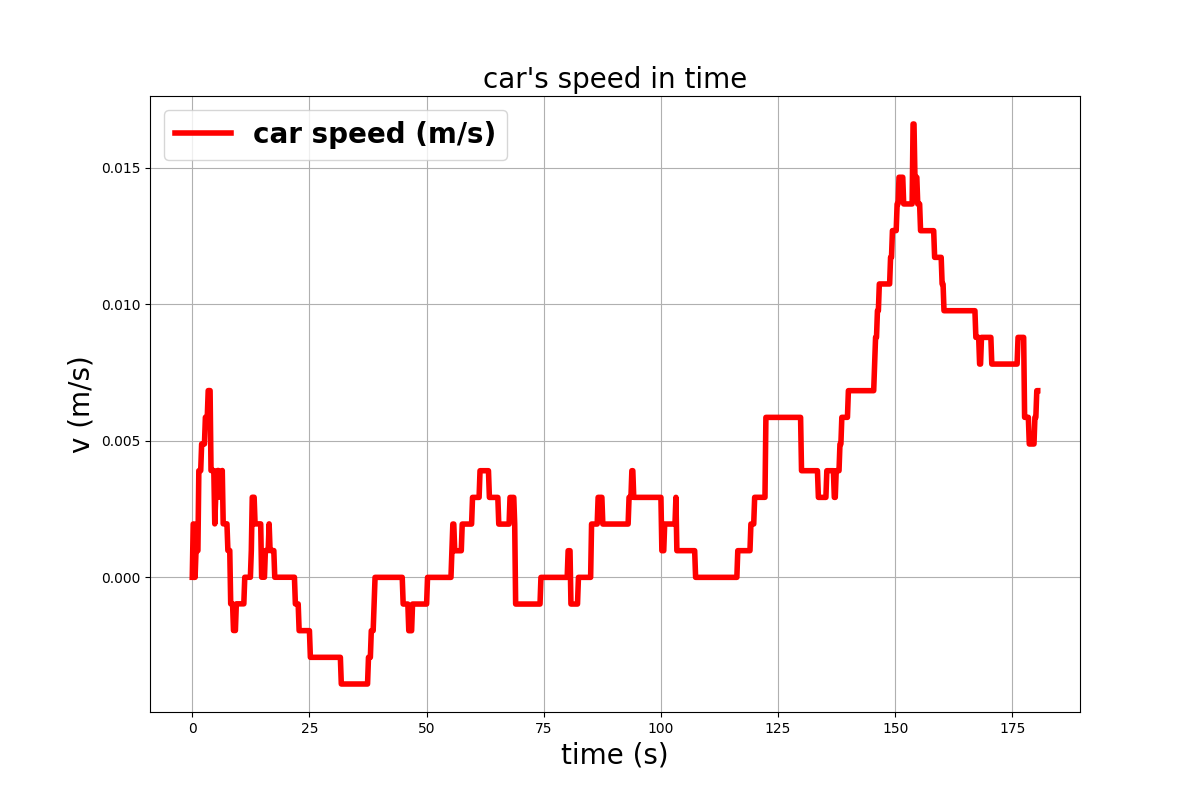
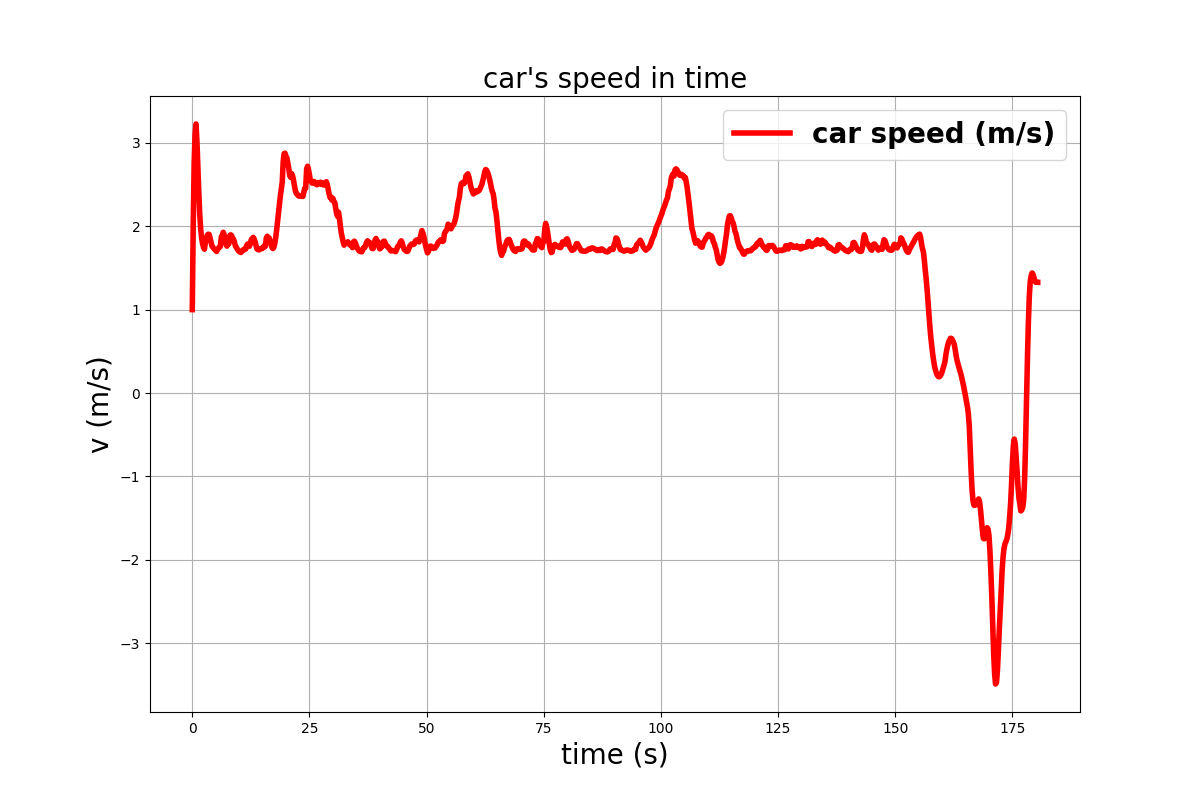
jan22 - updated model

diff --git a/mpc_testing/control.py b/mpc_testing/control.py
@@ -48,7 +48,10 @@ class Car_Dynamics:
         self.v = v_0
         self.psi = pf.estimate()[2]
         self.pf=pf
-        self.state = np.array([[self.x, self.y, self.v, self.psi]]).T
+        self.x_true=x_0
+        self.y_true=y_0
+        self.psi_true=  psi_0
+        self.state = np.array([[self.x_true, self.y_true, self.v, self.psi_true]]).T
         self.state_pf = np.array([[self.x, self.y, self.psi]]).T
 
     def move(self, accelerate, delta):
@@ -57,27 +60,46 @@ class Car_Dynamics:
         # print( self.v)
         y_dot = self.v*np.sin(self.psi)
         v_dot = accelerate
-        psi_dot = self.v*np.tan(delta)/self.L
+        psi_dot = self.v*np.tan(delta)/self.L  
         return np.array([[x_dot, y_dot, v_dot, psi_dot]]).T
 
     def update_state(self, state_dot, obs_x, obs_y, obs_theta):
+        slip= np.random.normal(0, 15*np.pi/180)
         # self.u_k = command
         # self.z_k = state
         # print(state_dot)
-        self.pf.predict(state_dot[0,0]*self.dt, state_dot[1,0]*self.dt, state_dot[3,0]*self.dt, 0.01, 0.01)
-        self.pf.update(np.array([obs_x, obs_y, obs_theta]), 0.1)
+        print("----"*8)
+
+        print(f"observed state: {obs_x, obs_y, obs_theta}")
+        
+        self.pf.predict(state_dot[0,0]*self.dt, state_dot[1,0]*self.dt, state_dot[3,0]*self.dt, 0.1,0.1)
+        self.pf.update(np.array([obs_x, obs_y, obs_theta]), 0.001)
         self.pf.resample()
         # self.pf.estimate()
         self.state=self.state + self.dt*state_dot
         self.state_pf = self.pf.estimate()
-        print(self.state, self.state_pf)
-        # self.state = self.state + self.dt*state_dot
+        print(f"state_pf: {self.state_pf}")
+
+        print(f"state: {self.state}")
+        
         self.x = self.state_pf[0]
         self.y = self.state_pf[1]
         self.v = self.state[2,0]
-        self.psi = self.state_pf[2]
+        self.psi = self.state_pf[2] + slip
+        self.x_true = self.state[0,0]
+        self.y_true = self.state[1,0]
+        self.psi_true = self.state[3,0] +slip
+        print(f"true xyz state: {self.x_true, self.y_true, self.psi_true}")
+        print("===="*8)
         # print(self.state)
 
+
+    def update_state_optimize(self, state_dot):
+        self.state=self.state + self.dt*state_dot
+        self.x = self.state[0,0]
+        self.y = self.state[1,0]
+        self.v = self.state[2,0]
+        self.psi = self.state[3,0]
     
 class MPC_Controller:
     def __init__(self):
@@ -99,7 +121,7 @@ class MPC_Controller:
 
         for i in range(self.horiz):
             state_dot = mpc_car.move(u_k[0,i], u_k[1,i])
-            mpc_car.update_state(state_dot, my_car.x, my_car.y, my_car.psi)
+            mpc_car.update_state_optimize(state_dot)
         
             z_k[:,i] = [mpc_car.x, mpc_car.y] # replace with belief state from particle filter
             cost += np.sum(self.R@(u_k[:,i]**2))
@@ -115,64 +137,3 @@ class MPC_Controller:
         return result.x[0],  result.x[1]
 
 
-
-######################################################################################################################################################################
-
-class Linear_MPC_Controller:
-    def __init__(self):
-        self.horiz = None
-        self.R = np.diag([0.01, 0.01])                 # input cost matrix
-        self.Rd = np.diag([0.01, 1.0])                 # input difference cost matrix
-        self.Q = np.diag([1.0, 1.0])                   # state cost matrix
-        self.Qf = self.Q                               # state final matrix
-        self.dt=0.2   
-        self.L=4                          
-
-    def make_model(self, v, psi, delta):        
-        # matrices
-        # 4*4
-        A = np.array([[1, 0, self.dt*np.cos(psi)         , -self.dt*v*np.sin(psi)],
-                    [0, 1, self.dt*np.sin(psi)         , self.dt*v*np.cos(psi) ],
-                    [0, 0, 1                           , 0                     ],
-                    [0, 0, self.dt*np.tan(delta)/self.L, 1                     ]])
-        # 4*2 
-        B = np.array([[0      , 0                                  ],
-                    [0      , 0                                  ],
-                    [self.dt, 0                                  ],
-                    [0      , self.dt*v/(self.L*np.cos(delta)**2)]])
-
-        # 4*1
-        C = np.array([[self.dt*v* np.sin(psi)*psi                ],
-                    [-self.dt*v*np.cos(psi)*psi                ],
-                    [0                                         ],
-                    [-self.dt*v*delta/(self.L*np.cos(delta)**2)]])
-        
-        return A, B, C
-
-    def mpc_cost(self, u_k, my_car, points):
-        
-        u_k = u_k.reshape(self.horiz, 2).T
-        z_k = np.zeros((2, self.horiz+1))
-        desired_state = points.T
-        cost = 0.0
-        old_state = np.array([my_car.x, my_car.y, my_car.v, my_car.psi]).reshape(4,1)
-
-        for i in range(self.horiz):
-            delta = u_k[1,i]
-            A,B,C = self.make_model(my_car.v, my_car.psi, delta)
-            new_state = A@old_state + B@u_k + C
-        
-            z_k[:,i] = [new_state[0,0], new_state[1,0]]
-            cost += np.sum(self.R@(u_k[:,i]**2))
-            cost += np.sum(self.Q@((desired_state[:,i]-z_k[:,i])**2))
-            if i < (self.horiz-1):     
-                cost += np.sum(self.Rd@((u_k[:,i+1] - u_k[:,i])**2))
-            
-            old_state = new_state
-        return cost
-
-    def optimize(self, my_car, points):
-        self.horiz = points.shape[0]
-        bnd = [(-5, 5),(np.deg2rad(-60), np.deg2rad(60))]*self.horiz
-        result = minimize(self.mpc_cost, args=(my_car, points), x0 = np.zeros((2*self.horiz)), method='SLSQP', bounds = bnd)
-        return result.x[0],  result.x[1]

diff --git a/mpc_testing/main_autopark.py b/mpc_testing/main_autopark.py
@@ -5,7 +5,7 @@ import argparse
 
 from environment import Environment, Parking1
 from pathplanning import PathPlanning, ParkPathPlanning, interpolate_path
-from control import Car_Dynamics, MPC_Controller, Linear_MPC_Controller, ParticleFilter
+from control import Car_Dynamics, MPC_Controller, ParticleFilter
 from utils import angle_of_line, make_square, DataLogger
 
 if __name__ == '__main__':
@@ -88,9 +88,9 @@ if __name__ == '__main__':
     for i,point in enumerate(final_path):
         
             acc, delta = controller.optimize(my_car, final_path[i:i+MPC_HORIZON])
-            my_car.update_state(my_car.move(acc,  delta), my_car.x, my_car.y, my_car.psi)
-            # print(my_car.x, my_car.y, my_car.psi, delta)
-            
+            my_car.update_state(my_car.move(acc,  delta), 0,0,0)
+            print(f"here: {my_car.x_true, my_car.y_true, my_car.psi_true}")
+            # print(acc)
             res = env.render(my_car.x, my_car.y, my_car.psi, delta)
             logger.log(point, my_car, acc, delta)
 

diff --git a/mpc_testing/comm_agent.py b/mpc_testing/comm_agent.py
@@ -1,0 +1,2 @@
+import numpy as np
+
